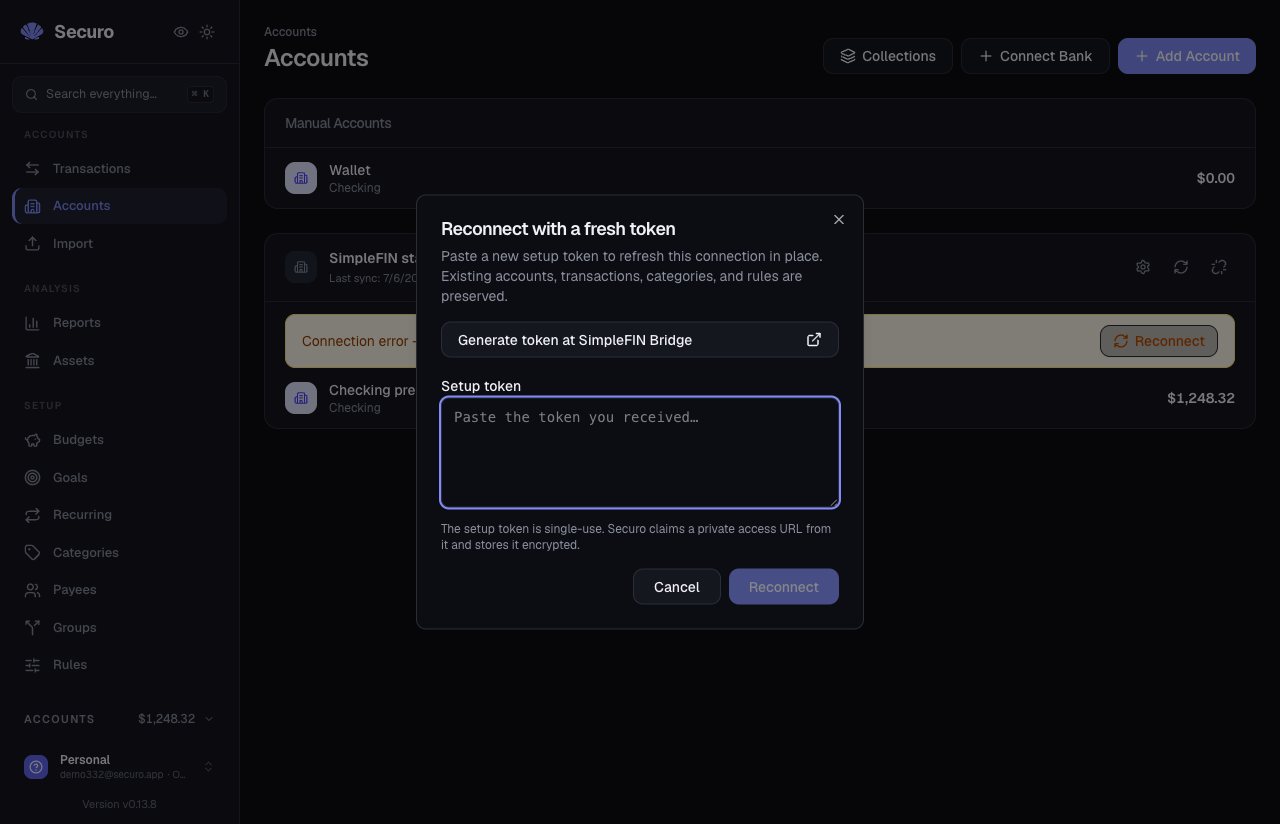
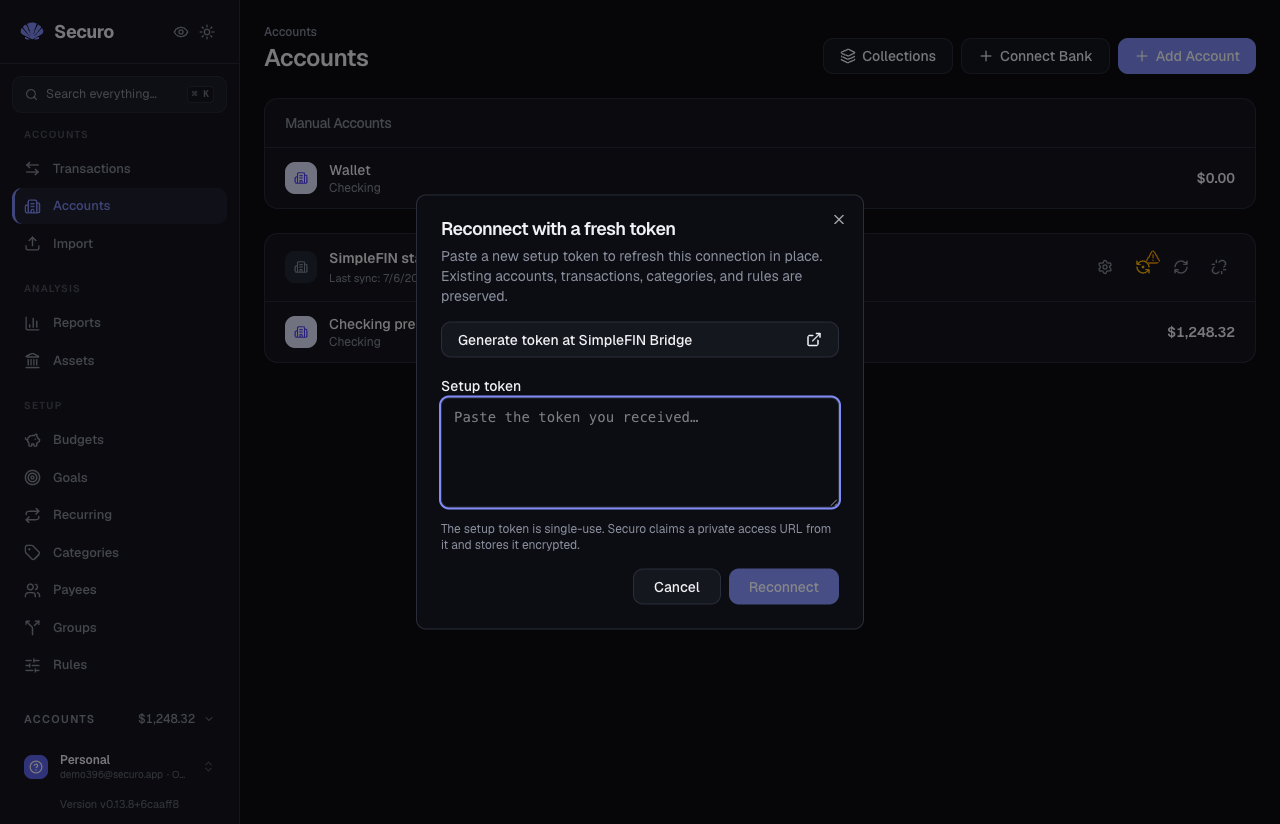
ui: integrate reconnect warning action

Changed region(s): [[0.6562, 0.3641, 0.9688, 0.4854], [0.2188, 0.3641, 0.3438, 0.5158], [0.875, 0.3034, 0.9062, 0.3337]]

diff --git a/frontend/src/pages/accounts.tsx b/frontend/src/pages/accounts.tsx
@@ -27,6 +27,8 @@ import {
   Pencil,
   Trash2,
   RefreshCw,
+  RefreshCcwDot,
+  TriangleAlert,
   Unlink,
   Plus,
   Settings,
@@ -359,7 +361,11 @@ export default function AccountsPage() {
                             <p className="text-sm font-semibold text-foreground">{getConnectionName(conn)}</p>
                             <Badge
                               variant={conn.status === 'active' ? 'default' : 'secondary'}
-                              className="text-[10px] px-1.5 py-0 h-4"
+                              className={
+                                conn.status === 'active'
+                                  ? 'text-[10px] px-1.5 py-0 h-4'
+                                  : 'text-[10px] px-1.5 py-0 h-4 border border-amber-500/30 bg-amber-500/10 text-amber-700 dark:text-amber-300'
+                              }
                             >
                               {conn.status}
                             </Badge>
@@ -381,6 +387,24 @@ export default function AccountsPage() {
                           >
                             <Settings size={14} />
                           </Button>
+                          {conn.status !== 'active' && (
+                            <Button
+                              variant="ghost"
+                              size="sm"
+                              className="relative h-8 w-8 p-0 text-amber-500 hover:bg-amber-500/10 hover:text-amber-600 dark:text-amber-400 dark:hover:text-amber-300"
+                              onClick={() => handleReconnectClick(conn)}
+                              title={conn.status === 'expired'
+                                ? t('accounts.connectionExpired')
+                                : t('accounts.connectionError')}
+                              aria-label={t('accounts.reconnect')}
+                            >
+                              <RefreshCcwDot size={15} />
+                              <TriangleAlert
+                                size={10}
+                                className="absolute -right-0.5 -top-0.5 rounded-full bg-card text-amber-500"
+                              />
+                            </Button>
+                          )}
                           <Button
                             variant="ghost"
                             size="sm"
@@ -402,27 +426,6 @@ export default function AccountsPage() {
                         </div>
                       )}
                     </div>
-                    {/* Reconnect banner */}
-                    {conn.status !== 'active' && (
-                      <div className="mx-5 mt-3 flex items-center justify-between rounded-lg border border-amber-200 bg-amber-50 px-4 py-2.5">
-                        <span className="text-sm text-amber-800">
-                          {conn.status === 'expired'
-                            ? t('accounts.connectionExpired')
-                            : t('accounts.connectionError')}
-                        </span>
-                        {canWrite && (
-                          <Button
-                            variant="outline"
-                            size="sm"
-                            className="border-amber-300 text-amber-700 hover:bg-amber-100 gap-1.5 h-8"
-                            onClick={() => handleReconnectClick(conn)}
-                          >
-                            <RefreshCw size={12} />
-                            {t('accounts.reconnect')}
-                          </Button>
-                        )}
-                      </div>
-                    )}
                     {/* Accounts list */}
                     {connAccounts.length > 0 ? (
                       <div className="divide-y divide-muted">
